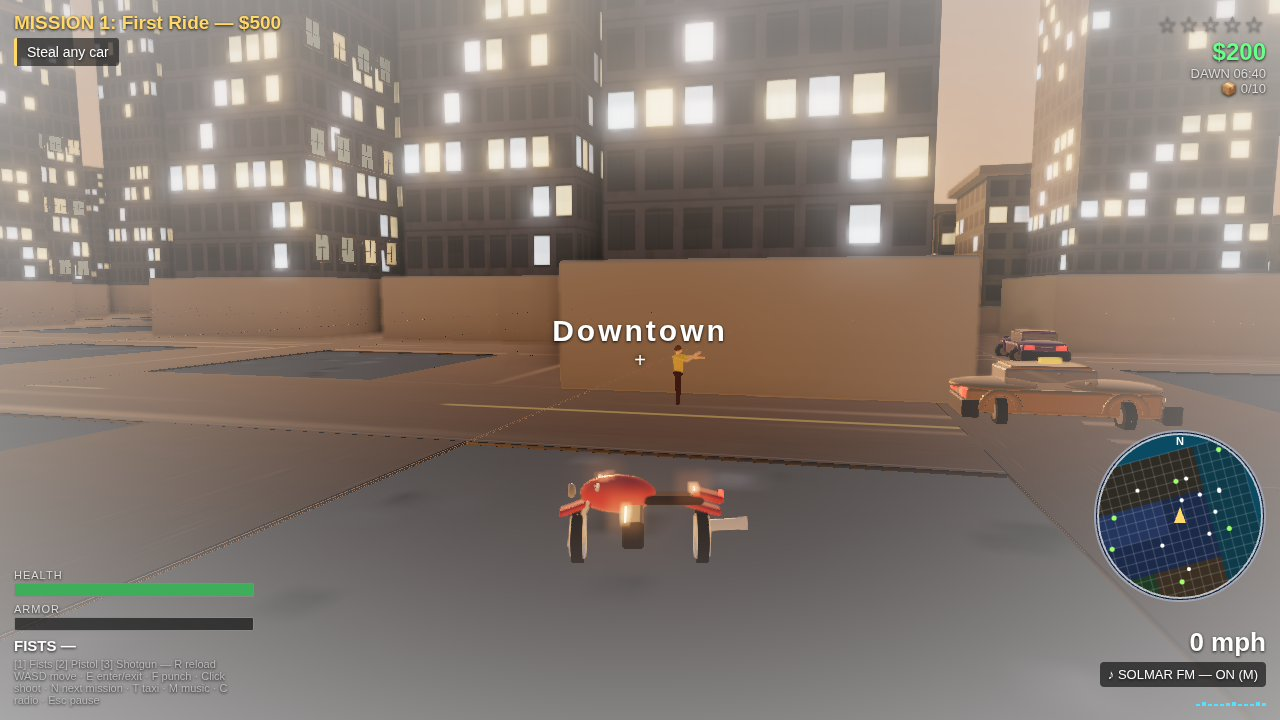
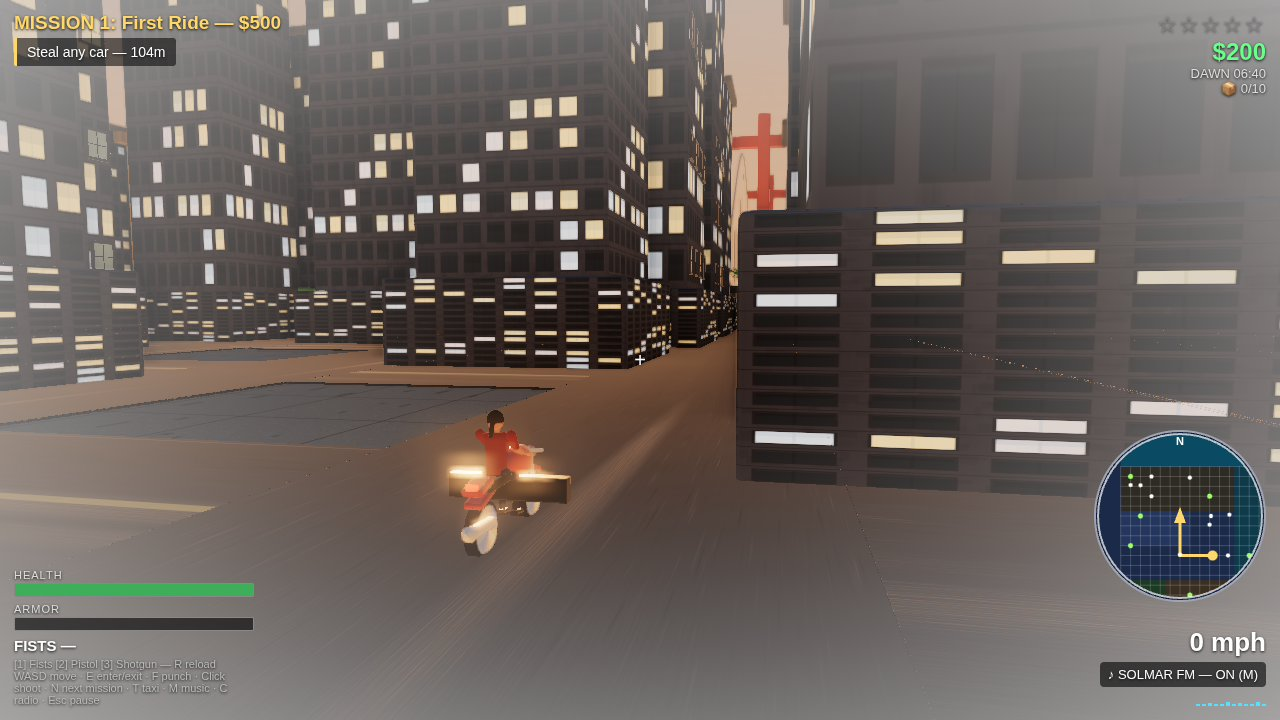
fix: bank open-front pavilion, night water/beacon/Mara, heist camera, night fog

diff --git a/game/src/city.js b/game/src/city.js
@@ -258,10 +258,21 @@ export function buildCity(scene, rng) {
   const bank = new THREE.Group(); bank.position.set(30, 0, -30); scene.add(bank);
   const bankBase = new THREE.Mesh(rbox(26, 1.2, 16, 0.15, 4), phys({ color: 0xb8b0a0, roughness: 0.8 }));
   bankBase.position.y = 0.6; bankBase.receiveShadow = true; bank.add(bankBase);
-  const bankHall = new THREE.Mesh(rbox(22, 9, 12, 0.15, 4), phys({ color: 0xd8cfb8, roughness: 0.7 }));
-  bankHall.position.y = 1.2 + 4.5; bankHall.castShadow = true; bankHall.receiveShadow = true; bank.add(bankHall);
+  // Open-front pavilion (NOT a solid box): back wall + side walls + roof slab,
+  // so the lit interior is genuinely visible through the glass front.
+  const bankWallMat = phys({ color: 0xd8cfb8, roughness: 0.7 });
+  const bankBack = new THREE.Mesh(rbox(22, 9, 0.6, 0.12, 3), bankWallMat);
+  bankBack.position.set(0, 1.2 + 4.5, -5.7); bankBack.castShadow = true; bank.add(bankBack);
+  for (const s of [-1, 1]) {
+    const side = new THREE.Mesh(rbox(0.6, 9, 12, 0.12, 3), bankWallMat);
+    side.position.set(s * 10.7, 1.2 + 4.5, 0); side.castShadow = true; bank.add(side);
+  }
+  const bankRoof = new THREE.Mesh(rbox(23, 0.8, 13, 0.12, 3), phys({ color: 0x8a8578, roughness: 0.8 }));
+  bankRoof.position.set(0, 1.2 + 9.2, 0); bankRoof.castShadow = true; bank.add(bankRoof);
+  const bankFloor = new THREE.Mesh(rbox(22, 0.3, 12, 0.08, 3), phys({ color: 0x6a5a44, roughness: 0.5, clearcoat: 0.5 }));
+  bankFloor.position.set(0, 1.35, 0); bankFloor.receiveShadow = true; bank.add(bankFloor);
   // glass front with real interior boxes behind it (cash counters, lights)
-  const glassFront = new THREE.Mesh(rbox(18, 6.5, 0.2, 0.05, 3), lensMat(0xcfe8f0));
+  const glassFront = new THREE.Mesh(rbox(18, 6.5, 0.2, 0.05, 3), glassMat(0xcfe8f0, 0.32));
   glassFront.position.set(0, 4.6, 6.05); bank.add(glassFront);
   for (let i = -1; i <= 1; i++) {
     const counter = new THREE.Mesh(rbox(3.4, 1.1, 1.2, 0.08, 3), phys({ color: 0x4a3423, roughness: 0.6, clearcoat: 0.4 }));

diff --git a/game/src/shots.js b/game/src/shots.js
@@ -51,8 +51,8 @@ export function stageShot(name, w) {
     w.combat.setWeapon('pistol');
     w.peds.scare(30, -12, 26);
     lookAt(camera,
-      new THREE.Vector3(30 + 2.4, 2.1, -12 + 6.8),
-      new THREE.Vector3(30, 1.4, -30));
+      new THREE.Vector3(30 + 3.5, 3.4, -12 + 9.5),
+      new THREE.Vector3(30, 4.6, -30));
     hud.toast('MISSION 3 — grab the cash');
   } else if (name === 'storm') {
     // Shot 3 — dusk rain, low chase cam behind the sports car drifting a wet
@@ -80,17 +80,22 @@ export function stageShot(name, w) {
     // neon-lit marina, 5 stars, police boats + helicopter, city lights on water.
     set('night', 4, 5);
     w.exitVehicle(true);
-    player.pos.set(40, 0, 152); player.heading = 0; // facing the water (+z, south)
+    // Mara on the dock by the boat, facing it — close enough to read as a
+    // person, with the neon marina + skyline + dark water behind her.
+    player.pos.set(42, 0, 158); player.heading = 0.30;
     player.human.group.position.copy(player.pos);
     player.human.setPose('idle', 0.5);
     // boat right at the dock edge, bow out to sea
     w.boat.pos.set(44.5, 0, 166); w.boat.heading = 0; w.boat.speed = 0;
     w.boat.group.position.set(44.5, -0.1, 166);
     w.boat.group.rotation.y = w.boat.heading - Math.PI / 2;
+    // hide the giant beacon pillar for this shot (it filled the frame)
+    missions.beaconEnabled = false;
+    missions.beacon.visible = false;
     police.update(0.01, w.time, player, w.policeCallbacks);
     lookAt(camera,
-      new THREE.Vector3(22, 7.5, 138),
-      new THREE.Vector3(44, 1.5, 168));
+      new THREE.Vector3(30, 5.2, 146),
+      new THREE.Vector3(43, 1.4, 163));
     hud.setCenter('<div style="background:rgba(0,0,0,0.65);padding:10px 18px;border-radius:8px;color:#ffd76a;font-weight:bold">MISSION COMPLETE — +$3000 · SOLMAR LEGEND</div>');
   } else {
     w.staged = false;

diff --git a/game/src/missions.js b/game/src/missions.js
@@ -60,6 +60,7 @@ export class MissionManager {
     this.taxi = null; this.bankCash = 0;
     // beacon: additive cylinder + rotating octahedron diamond
     this.beacon = new THREE.Group();
+    this.beaconEnabled = true; // staged night shot hides the beacon pillar
     const cyl = new THREE.Mesh(
       new THREE.CylinderGeometry(1.6, 1.6, 30, 16, 1, true),
       new THREE.MeshBasicMaterial({ color: 0xffd76a, transparent: true, opacity: 0.22, blending: THREE.AdditiveBlending, depthWrite: false, side: THREE.DoubleSide }),
@@ -134,8 +135,8 @@ export class MissionManager {
         this.onEvent({ type: 'timer-fail', mission: m });
       }
     }
-    const tp = this.targetPos();
-    if (tp) {
+    const tp = this.pinTarget || this.targetPos();
+    if (tp && this.beaconEnabled) {
       this.beacon.visible = true;
       this.beacon.position.set(tp.x, 0, tp.z);
       this.beacon.userData.diamond.rotation.y += dt * 2;

diff --git a/game/src/main.js b/game/src/main.js
@@ -106,7 +106,11 @@ function applyPreset(name) {
   const wet = p.rain ? 1.0 : 0.55;
   city.asphaltMat.clearcoat = wet;
   city.asphaltMat.clearcoatRoughness = p.rain ? 0.06 : 0.22;
+  // water: dark + calm at night, bright + reflective by day
   const night = name === 'night' || name === 'dusk-rain';
+  city.waterMat.color.setHex(name === 'night' ? 0x0a1c30 : name === 'dusk-rain' ? 0x0d2a38 : 0x0e4a5e);
+  city.waterMat.envMapIntensity = name === 'night' ? 0.55 : name === 'dusk-rain' ? 0.8 : 1.6;
+  city.waterMat.roughness = name === 'night' ? 0.22 : 0.12;
   for (const d of parked) d.setHeadlights(night, 60);
   return p;
 }

diff --git a/game/src/lighting.js b/game/src/lighting.js
@@ -25,7 +25,7 @@ export const PRESETS = {
     label: 'NIGHT', clock: '22:15', sunColor: 0x8aa8ff, sunI: 0.55,
     sunPos: [-40, 60, -80], hemiSky: 0x24355e, hemiGround: 0x0e0e14, hemiI: 0.35,
     skyTop: '#060a1e', skyMid: '#101c3e', skyBot: '#1c2a52',
-    fog: 0x0a1226, fogDensity: 0.0017, exposure: 1.08, envI: 0.5, lampI: 2.6, neonI: 2.6,
+    fog: 0x0a1226, fogDensity: 0.0012, exposure: 1.08, envI: 0.5, lampI: 2.6, neonI: 2.6,
   },
 };
 

diff --git a/game/index.html b/game/index.html
@@ -3,6 +3,7 @@
 <head>
 <meta charset="utf-8">
 <meta name="viewport" content="width=device-width, initial-scale=1">
+<link rel="icon" href="data:,">
 <title>SOLMAR — an original open-world crime game</title>
 <style>
   html, body { margin: 0; height: 100%; overflow: hidden; background: #0a0e18; font-family: Arial, Helvetica, sans-serif; }
